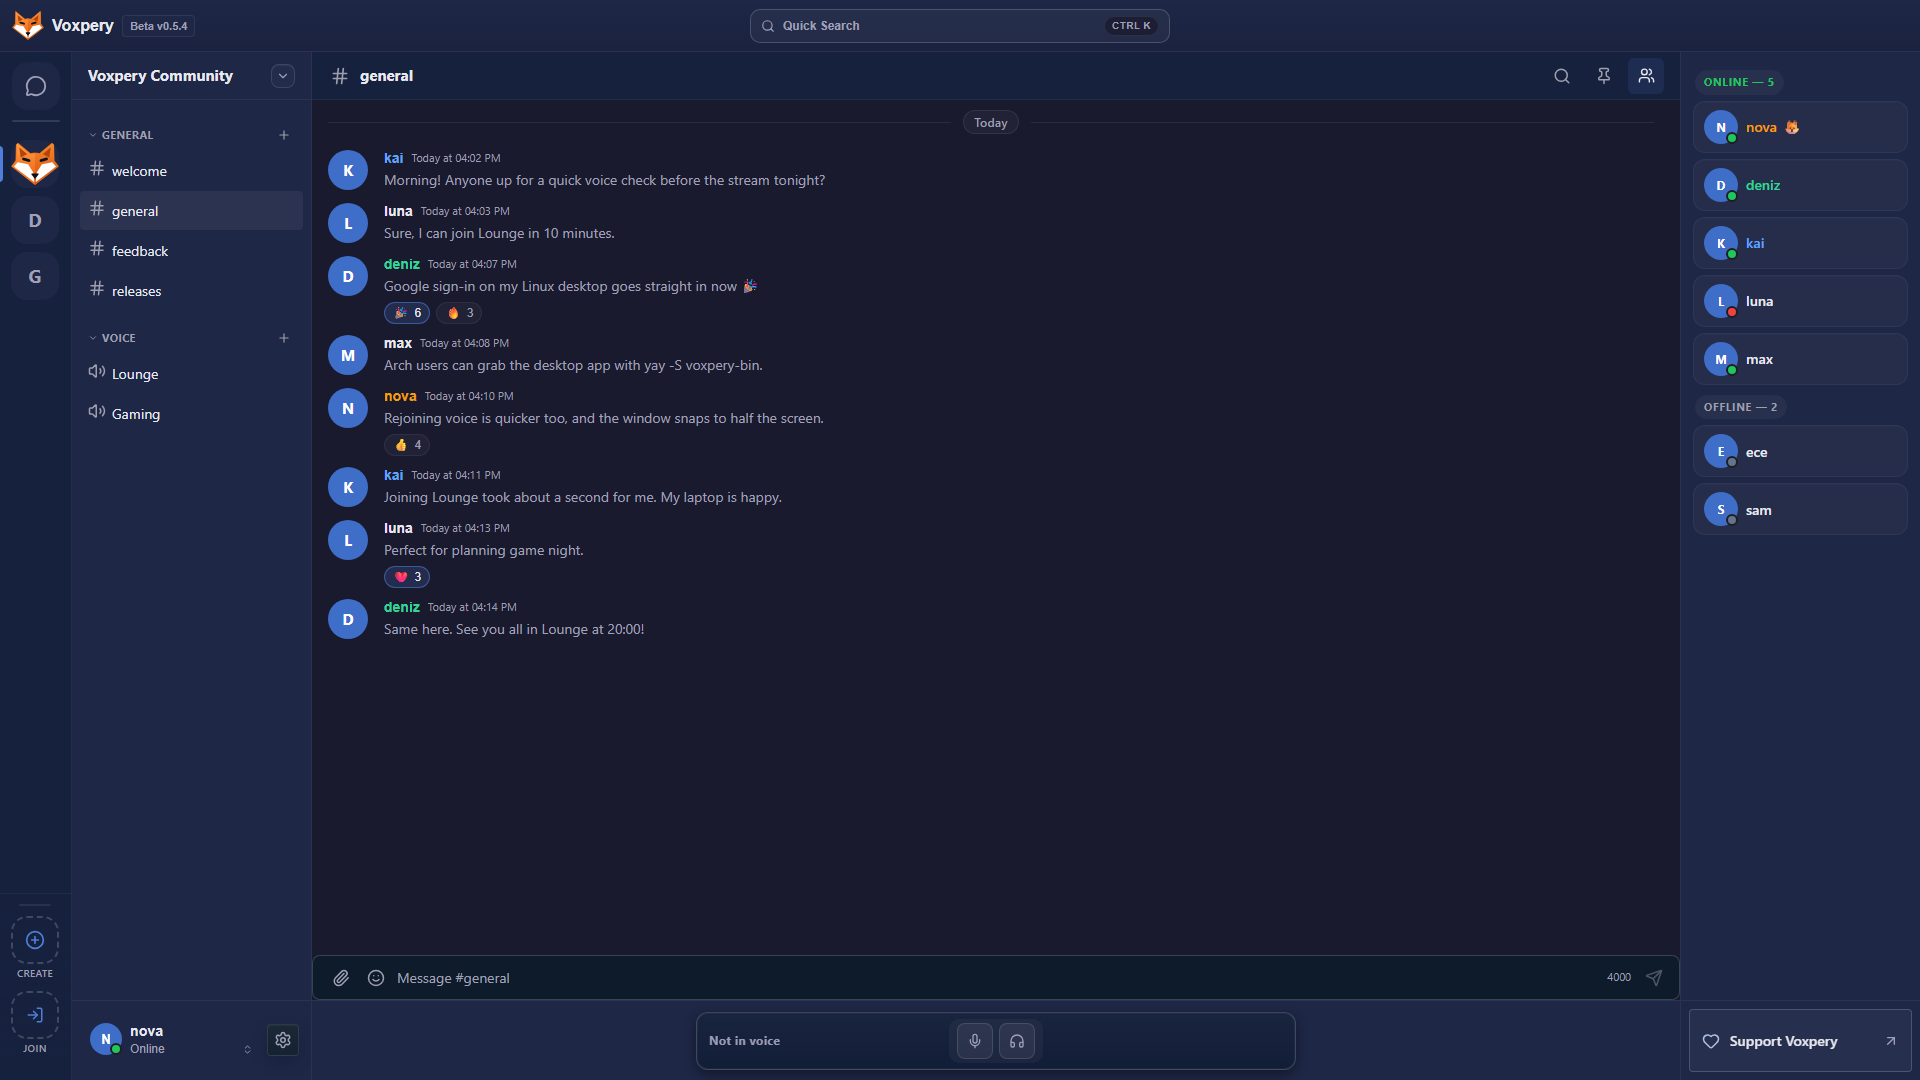
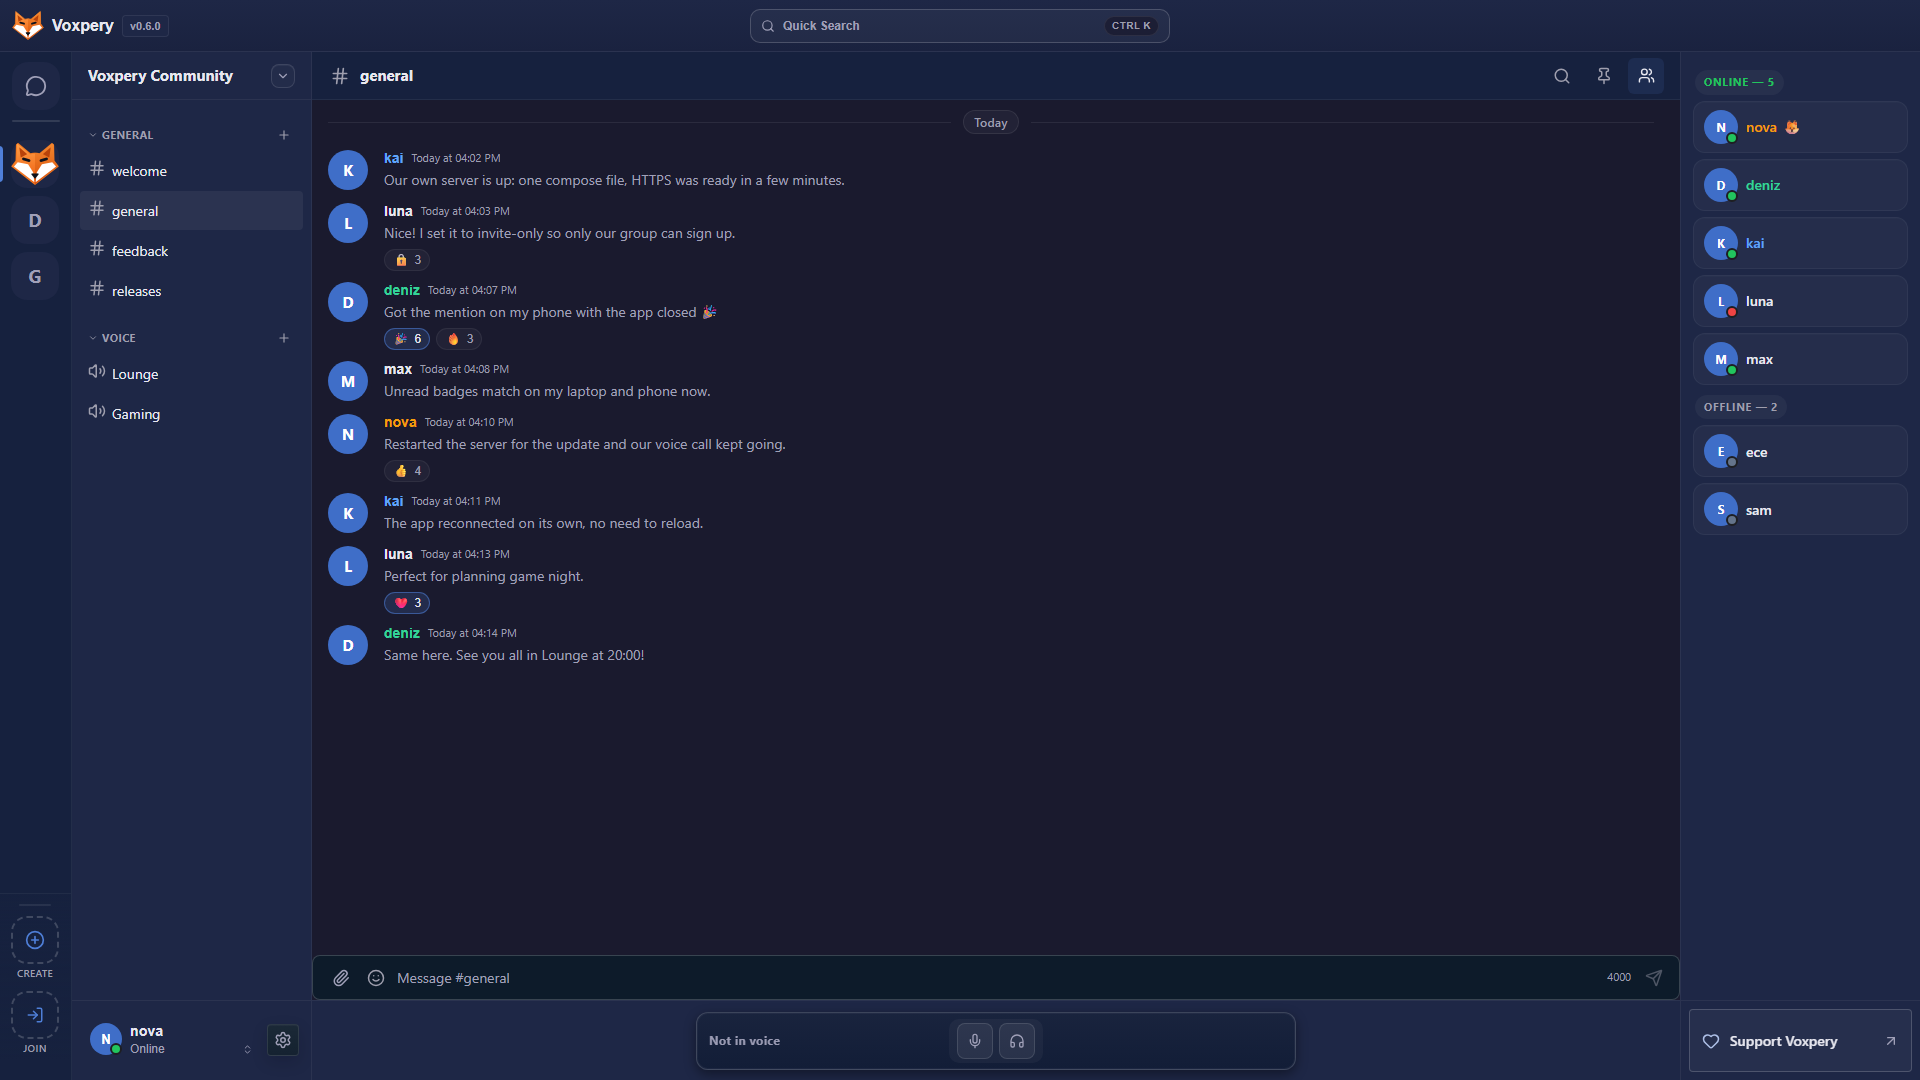
chore(release): prepare 0.6.0
Bump every version-bearing file to 0.6.0, date the 0.6.0 changelog, add
the 0.6.0 release checks, and refresh the product screenshot and social
preview with the new header badge and this release's highlights. The
checks call for a fresh database backup before the first start, since
migration 065 deletes audit log entries older than 180 days.

Changed region(s): [[0.1562, 0.2139, 0.4062, 0.6111], [0.1875, 0.1528, 0.4375, 0.1833], [0.0625, 0.0, 0.0938, 0.0306]]

diff --git a/docs/RELEASE_SMOKE_TEST_CHECKLIST.md b/docs/RELEASE_SMOKE_TEST_CHECKLIST.md
@@ -26,13 +26,30 @@ For releases that touch voice, WebRTC, LiveKit, service workers, build output, o
 
 ## Release Candidate Info
 
-### v0.5.4 preparation (not release sign-off)
+### v0.6.0 preparation (not release sign-off)
 
-Version metadata is prepared for `0.5.4`; this does not certify release readiness. Complete remaining planned improvements before recording the final candidate commit. Rebuild that exact commit in WSL with Docker and isolated test data, then test the real backend and UI at 1920x1080 plus narrow desktop/mobile regressions. Mocked browser tests are supplementary, not a substitute for this check.
+Version metadata is prepared for `0.6.0`; this does not certify release readiness. Complete remaining planned improvements before recording the final candidate commit. Rebuild that exact commit in WSL with Docker and isolated test data, then test the real backend and UI at 1920x1080 plus narrow desktop/mobile regressions. Mocked browser tests are supplementary, not a substitute for this check.
 
 Record real desktop smoke results, two-user voice/screen-share and moderation/reconnect checks, real-device mobile background-audio results, required CI/security/build results, and any platform limitations before publishing. Confirm that the glib 0.18 advisory (#242) still stays out of every shipped build (see `docs/DESKTOP_RELEASE_HARDENING.md`, Upstream issues tracked).
 
-For the final tag build, verify Docker images `voxpery/voxpery-server:v0.5.4` and `voxpery/voxpery-web:v0.5.4`, the embedded web badge/build tag, desktop version `0.5.4`, the `Voxpery_0.5.4_x86_64.flatpak` asset, the `aur-voxpery-bin` artifact (version and .deb SHA-256) (name and bundled metainfo version), and the release-generated updater `latest.json` version all agree. Scan both images (Docker Hub or `docker scout`) and record any remaining critical or high findings with a reason. Do not publish a placeholder updater manifest or tag unvalidated images as a release. Leave sign-off fields unchecked until the final candidate is tested.
+For the final tag build, verify Docker images `voxpery/voxpery-server:v0.6.0` and `voxpery/voxpery-web:v0.6.0`, the embedded web badge/build tag, desktop version `0.6.0`, the `Voxpery_0.6.0_x86_64.flatpak` asset, the `aur-voxpery-bin` artifact (version and .deb SHA-256) (name and bundled metainfo version), and the release-generated updater `latest.json` version all agree. Scan both images (Docker Hub or `docker scout`) and record any remaining critical or high findings with a reason. Do not publish a placeholder updater manifest or tag unvalidated images as a release. Leave sign-off fields unchecked until the final candidate is tested.
+
+### v0.6.0 checks
+
+Server migrations `065`, `066` and `067` run on the first start. Take a fresh database backup first: `065` deletes every audit log entry older than 180 days, which cannot be undone.
+
+- [ ] voxpery.com `/version.json` reports `v0.6.0` after the deploy, the header badge shows `v0.6.0` without a `Beta` label, and the server logs show the three migrations applied without errors.
+- [ ] Self-hosting from a clean server: `scripts/ops/init_env.sh` writes `.env`, `docker-compose.proxy.yml` obtains certificates for the web, API and LiveKit domains, sign-in, messages and a voice channel work over HTTPS, and rate limits see the real client address.
+- [ ] `docker compose ps` shows `server` and `web` as `healthy`; an existing Redis with `dump.rdb` converts to the append-only file once on the first start and keeps sign-outs.
+- [ ] Stopping Redis for 10 seconds keeps open web and desktop sessions signed in; they recover on their own and a revoked token is still refused afterwards.
+- [ ] Stopping the server for 5 minutes shows the "Connection lost" banner after 3 seconds; it clears on return and missed messages load, in a visible tab and in the desktop app.
+- [ ] `docker compose restart server` during an upload does not cut it off; two users in a voice channel stay in the call; with two instances, users of a stopped instance show offline on the other right away.
+- [ ] `REGISTRATION_MODE=invite` and `closed` with a real Google account: first sign-in follows the mode; existing accounts still sign in.
+- [ ] Server Settings resets the invite link: the old link shows an invalid invite, the new one joins.
+- [ ] Two devices of one account: reading a channel on one clears its badge on the other; a mention sent while the app is closed shows a badge on the next start; a muted channel is muted on both after a reconnect.
+- [ ] Android Chrome (real device) with notifications enabled and Voxpery in the background: a DM and a mention each show a notification, the chat still receives the message, and tapping opens that DM or channel (also listed under PWA above).
+- [ ] With VAPID keys set: Settings > Communication offers notifications while Voxpery is closed; with every tab closed, a DM arrives on Android Chrome, desktop Chrome and Firefox and opens the DM; signing out stops them. Record the iOS Home Screen result or the limit.
+- [ ] `/compare` shows the Stoat column on desktop and mobile.
 
 ### v0.5.4 checks
 

diff --git a/docs/CHANGELOG.md b/docs/CHANGELOG.md
@@ -5,7 +5,7 @@ All notable changes to this project will be documented in this file.
 The format is based on [Keep a Changelog](https://keepachangelog.com/en/1.1.0/),
 and this project adheres to [Semantic Versioning](https://semver.org/spec/v2.0.0.html).
 
-## [0.6.0] - Unreleased
+## [0.6.0] - 2026-11-15
 
 ### Added
 - Notifications while Voxpery is closed: turn them on per browser in Settings > Communication to get direct messages and mentions with no Voxpery tab open (Android Chrome, desktop Chrome, Edge and Firefox; Safari on iPhone and iPad after adding Voxpery to the Home Screen). A notification names the sender, never the message. Self-hosted servers enable it with VAPID keys (see `docs/DEPLOYMENT.md`).
